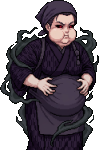
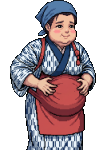
v112: へっぴり嫁の元の姿

diff --git a/src/scenes/FieldScene.js b/src/scenes/FieldScene.js
@@ -2,31 +2,31 @@
 // 上 y0〜420 に地図（1マス32ドット・旅の者が真ん中、しおりと加わった仲間が1歩ずつうしろに続く）／下の窓に十字キーと「はなす」「どうぐ」
 // 話す・店・宿の文と選びも下の窓（そのあいだ十字キーは隠す）
 // 旅の状態は registry の 'game'（計算は src/field/game.js）。地図が変わる（町に入る・出る）たびに この場面を始め直す
-import { EPISODES } from '../data/episodes.js?v=111';
-import { ITEMS, PRICE, itemNote } from '../data/items.js?v=111';
-import { FISH, PRIZES, ROD_PRICE, BITE_WINDOW_MS, WAIT_MS, rollFish, zoneStart, inZone, rentRod, addCatch, exchange } from '../field/fishing.js?v=111';
-import { RIDERS } from '../data/nomaoi_assets.js?v=111';
-import { FLAGS, FLAG_PRIZES, ENTRY_PRICE, ROUND_MS, CATCH_P, newRace, stepRace, racePts, flagX, fallP, enterRace, addFlags, exchangeFlag } from '../field/nomaoi.js?v=111';
-import { TILE } from '../field/tiles.js?v=111';
-import { GROUNDS, OBJECTS, fieldLook, townLook } from '../field/look.js?v=111';
-import { preloadKit, makeWindow, makeButton, makePad, paginate } from '../ui/kit.js?v=111';
-import { preloadPeople, frameOf, ORIGIN_Y } from '../field/sprites.js?v=111';
-import { TOWNS, TOWN_OF } from '../field/towns.js?v=111';
+import { EPISODES } from '../data/episodes.js?v=112';
+import { ITEMS, PRICE, itemNote } from '../data/items.js?v=112';
+import { FISH, PRIZES, ROD_PRICE, BITE_WINDOW_MS, WAIT_MS, rollFish, zoneStart, inZone, rentRod, addCatch, exchange } from '../field/fishing.js?v=112';
+import { RIDERS } from '../data/nomaoi_assets.js?v=112';
+import { FLAGS, FLAG_PRIZES, ENTRY_PRICE, ROUND_MS, CATCH_P, newRace, stepRace, racePts, flagX, fallP, enterRace, addFlags, exchangeFlag } from '../field/nomaoi.js?v=112';
+import { TILE } from '../field/tiles.js?v=112';
+import { GROUNDS, OBJECTS, fieldLook, townLook } from '../field/look.js?v=112';
+import { preloadKit, makeWindow, makeButton, makePad, paginate } from '../ui/kit.js?v=112';
+import { preloadPeople, frameOf, ORIGIN_Y } from '../field/sprites.js?v=112';
+import { TOWNS, TOWN_OF } from '../field/towns.js?v=112';
 import {
   mapRows, terrainAt, canWalk, tileNameAt, DELTA, BOSS_AT, WALL_OPENED_BY, SAVE_KEY, maxOf,
   enterTown, leaveTown, buy, stayInn, save, autoSaveAfterBoss, useItem, walkStep, encounterAt,
   purify, kuyo, returnStolen, HARAI_PRICE, KUYO_PRICE, revive, revivePrice, NAME, isField, crossAt,
-} from '../field/game.js?v=111';
-import { membersOf } from '../battle/levels.js?v=111';
-import { COMPANIONS } from '../data/companions.js?v=111';
-import { ICON_IDS } from '../data/icons.js?v=111';
-import { FACE_IDS } from '../data/faces.js?v=111';
-import { mapPointOf } from '../field/mapcard.js?v=111';
-import { FISHING_ICON_IDS } from '../data/icons_fishing.js?v=111';
-import { makeRng } from '../battle/rules.js?v=111';
-import { EQUIP, SLOTS, SLOT_NAME, equipNote, START_EQUIP, diffNote, diffDown } from '../data/equip.js?v=111';
-import { buyEquip, partyView } from '../field/game.js?v=111';
-import { sfx, startBgm, playJingle, jingleSeconds } from '../audio/chip.js?v=111';
+} from '../field/game.js?v=112';
+import { membersOf } from '../battle/levels.js?v=112';
+import { COMPANIONS } from '../data/companions.js?v=112';
+import { ICON_IDS } from '../data/icons.js?v=112';
+import { FACE_IDS } from '../data/faces.js?v=112';
+import { mapPointOf } from '../field/mapcard.js?v=112';
+import { FISHING_ICON_IDS } from '../data/icons_fishing.js?v=112';
+import { makeRng } from '../battle/rules.js?v=112';
+import { EQUIP, SLOTS, SLOT_NAME, equipNote, START_EQUIP, diffNote, diffDown } from '../data/equip.js?v=112';
+import { buyEquip, partyView } from '../field/game.js?v=112';
+import { sfx, startBgm, playJingle, jingleSeconds } from '../audio/chip.js?v=112';
 
 // 景品の窓（釣り＝小名浜の釣り番／旗＝雲雀ヶ原の世話役）。同じ窓を 点の名前と景品の表だけ替えて使う
 const PRIZE_SHOPS = {

diff --git a/src/data/episodes.js b/src/data/episodes.js
@@ -1,19 +1,19 @@
 // 遊ぶ順（話数＝順路の順・本人 10/1）。題の画面は先頭の話を出し、勝つと「つぎの話へ」で次へ進む
 // 序章：第一話 松川様 → 第二話 賢沼の大うなぎ → 第三話 蛇岸淵（淵の主）→ 第四話 龍燈
-import { MATSUKAWA } from './matsukawa.js?v=111';
-import { KASHINUMA } from './kashinuma.js?v=111';
-import { JAGAN } from './jagan.js?v=111';
-import { RYUTO } from './ryuto.js?v=111';
+import { MATSUKAWA } from './matsukawa.js?v=112';
+import { KASHINUMA } from './kashinuma.js?v=112';
+import { JAGAN } from './jagan.js?v=112';
+import { RYUTO } from './ryuto.js?v=112';
 // 1章 相馬（10/3）：第五話 ザルカブリ山 → 第六話 大悲山の大蛇 → 第七話 手長明神 → 第八話 虎捕山の白狼（橘墨虎）
-import { ZARUKABURI } from './zarukaburi.js?v=111';
-import { DAIHISAN } from './daihisan.js?v=111';
-import { TENAGA } from './tenaga.js?v=111';
-import { SUMITORA } from './sumitora.js?v=111';
+import { ZARUKABURI } from './zarukaburi.js?v=112';
+import { DAIHISAN } from './daihisan.js?v=112';
+import { TENAGA } from './tenaga.js?v=112';
+import { SUMITORA } from './sumitora.js?v=112';
 // 2章 県北（10/4）：第九話 飴買い幽霊 → 第十話 ご坊狐 → 第十一話 ムカデとオロチ → 第十二話 へっぴり嫁 → 第十三話 安達ヶ原の鬼婆
-import { AMEKAI } from './amekai.js?v=111';
-import { GOBOU } from './gobou.js?v=111';
-import { MUKADE } from './mukade.js?v=111';
-import { HEPPIRI } from './heppiri.js?v=111';
-import { ONIBABA } from './onibaba.js?v=111';
+import { AMEKAI } from './amekai.js?v=112';
+import { GOBOU } from './gobou.js?v=112';
+import { MUKADE } from './mukade.js?v=112';
+import { HEPPIRI } from './heppiri.js?v=112';
+import { ONIBABA } from './onibaba.js?v=112';
 
 export const EPISODES = [MATSUKAWA, KASHINUMA, JAGAN, RYUTO, ZARUKABURI, DAIHISAN, TENAGA, SUMITORA, AMEKAI, GOBOU, MUKADE, HEPPIRI, ONIBABA];

diff --git a/src/scenes/BattleScene.js b/src/scenes/BattleScene.js
@@ -1,14 +1,14 @@
-import { EPISODES } from '../data/episodes.js?v=111';
-import { revealAt } from '../ui/reveal.js?v=111';
-import { createBattle, resolveTurn, makeRng } from '../battle/rules.js?v=111';
-import { chooseCommands } from '../battle/auto.js?v=111';
-import { itemNote } from '../data/items.js?v=111';
-import { unlock, isUnlocked, sfx, startBgm, stopBgm, toggleMute, isMuted, playVoice, stopVoice, voiceLevel } from '../audio/chip.js?v=111';
-import { STORY_FILES } from '../data/story_assets.js?v=111';
-import { CUTIN_FILES, CUTIN_V } from '../data/cutin_assets.js?v=111';
-import { drawScroll } from '../ui/scroll.js?v=111';
-import { preloadKit, makeWindow, makeButton, paginate } from '../ui/kit.js?v=111';
-import { battleData, afterWin, afterLose, afterForcedLose, zakoData, afterZako, BOSS_MON } from '../field/game.js?v=111';
+import { EPISODES } from '../data/episodes.js?v=112';
+import { revealAt } from '../ui/reveal.js?v=112';
+import { createBattle, resolveTurn, makeRng } from '../battle/rules.js?v=112';
+import { chooseCommands } from '../battle/auto.js?v=112';
+import { itemNote } from '../data/items.js?v=112';
+import { unlock, isUnlocked, sfx, startBgm, stopBgm, toggleMute, isMuted, playVoice, stopVoice, voiceLevel } from '../audio/chip.js?v=112';
+import { STORY_FILES } from '../data/story_assets.js?v=112';
+import { CUTIN_FILES, CUTIN_V } from '../data/cutin_assets.js?v=112';
+import { drawScroll } from '../ui/scroll.js?v=112';
+import { preloadKit, makeWindow, makeButton, paginate } from '../ui/kit.js?v=112';
+import { battleData, afterWin, afterLose, afterForcedLose, zakoData, afterZako, BOSS_MON } from '../field/game.js?v=112';
 
 // 1つの戦いの画面を、話ごとのデータ（src/data/<話>.js・並びは episodes.js）で使い回す
 // 絵は Gemini で描いて art_src/prep_art.py で整えた物（敵も背景も2倍で見せる）。データの art に置き場と光の色

diff --git a/src/field/game.js b/src/field/game.js
@@ -1,15 +1,15 @@
 // 旅の状態（居場所・文・持ち物・仲間の HP・元に戻したボス・記録）。画面と切り離す＝Node で試験する
 // ここの関数は game を書き換えずに、新しい game を返す
-import { IWAKI_ROWS } from './iwaki_map.js?v=111';
-import { SOMA_ROWS } from './soma_map.js?v=111';
-import { KENPOKU_ROWS } from './kenpoku_map.js?v=111';
-import { FIELD_TERRAIN, TOWN_TERRAIN } from './tiles.js?v=111';
-import { TOWNS, TOWN_ENTRY } from './towns.js?v=111';
-import { ITEMS, PRICE, OLD_ITEM } from '../data/items.js?v=111';
-import { ZAKO, ZAKO_TELL } from '../data/zako.js?v=111';
-import { statsAt, levelFor, EXP_TO, PARTY_IDS, ALL_IDS, MAX_PARTY, membersOf, statsWithGear } from '../battle/levels.js?v=111';
-import { COMPANIONS, COMPANION_SPELLS, JOIN_AFTER, SWAP_AFTER_LOSS } from '../data/companions.js?v=111';
-import { EQUIP, START_EQUIP } from '../data/equip.js?v=111';
+import { IWAKI_ROWS } from './iwaki_map.js?v=112';
+import { SOMA_ROWS } from './soma_map.js?v=112';
+import { KENPOKU_ROWS } from './kenpoku_map.js?v=112';
+import { FIELD_TERRAIN, TOWN_TERRAIN } from './tiles.js?v=112';
+import { TOWNS, TOWN_ENTRY } from './towns.js?v=112';
+import { ITEMS, PRICE, OLD_ITEM } from '../data/items.js?v=112';
+import { ZAKO, ZAKO_TELL } from '../data/zako.js?v=112';
+import { statsAt, levelFor, EXP_TO, PARTY_IDS, ALL_IDS, MAX_PARTY, membersOf, statsWithGear } from '../battle/levels.js?v=112';
+import { COMPANIONS, COMPANION_SPELLS, JOIN_AFTER, SWAP_AFTER_LOSS } from '../data/companions.js?v=112';
+import { EQUIP, START_EQUIP } from '../data/equip.js?v=112';
 
 export const SAVE_KEY = 'fq-save-v1';
 

diff --git a/src/main.js b/src/main.js
@@ -1,11 +1,11 @@
-import { TitleScene } from './scenes/TitleScene.js?v=111';
-import { BattleScene } from './scenes/BattleScene.js?v=111';
-import { FieldScene, FIELD_TEXT } from './scenes/FieldScene.js?v=111';
-import { ZAKO, ZAKO_TELL } from './data/zako.js?v=111';
-import { HARAI } from './field/game.js?v=111';
-import { EQUIP } from './data/equip.js?v=111';
-import { EPISODES } from './data/episodes.js?v=111';
-import { unlock, isUnlocked } from './audio/chip.js?v=111';
+import { TitleScene } from './scenes/TitleScene.js?v=112';
+import { BattleScene } from './scenes/BattleScene.js?v=112';
+import { FieldScene, FIELD_TEXT } from './scenes/FieldScene.js?v=112';
+import { ZAKO, ZAKO_TELL } from './data/zako.js?v=112';
+import { HARAI } from './field/game.js?v=112';
+import { EQUIP } from './data/equip.js?v=112';
+import { EPISODES } from './data/episodes.js?v=112';
+import { unlock, isUnlocked } from './audio/chip.js?v=112';
 
 // 本人 10/2「松川と戦うまで、BGMが無い」＝iPhone は指を置いた瞬間（pointerdown）では音の出口を開けず、指を離した瞬間・クリックで開く
 // ⇒ 画面のどこを さわっても、離した瞬間に音の出口を開け直す（題の画面で一度さわった後だけ。止まっていれば鳴りだす）

diff --git a/src/data/heppiri.js b/src/data/heppiri.js
@@ -5,11 +5,11 @@
 // 必殺技は「すごいおなら」（本人 10/1「おなら」→10/4「おおきな屁」→同日「すごいおなら」・おならの効果音・くらうと全員しばらく気絶）。⛔下品に振れさせない（音・臭いを書かない。可笑しみは真面目に語ることから）・子ども向けの絵柄に寄せない
 // ゲームでは、忘れられて黒いもやに呑まれた嫁。弱点＝「迎えの言葉」（遠慮は いらんよ）。倒すと元に戻り、二本松への道の大岩を吹き飛ばす
 // 絵＝まだ（仮に道中の娘の絵）。プロンプト＝art_src/Geminiプロンプト_2章県北.md
-import { BASIC_ITEMS } from './basic_items.js?v=111';
+import { BASIC_ITEMS } from './basic_items.js?v=112';
 
 export const HEPPIRI = {
   art: {
-    dark: 'assets/heppiri_dark.png', light: 'assets/heppiri_light.png', bg: 'assets/bg_dochu_north.png', // 10/4 ①が届いた（②が届くまで light も呑まれた姿・背景は仮）
+    dark: 'assets/heppiri_dark.png', light: 'assets/heppiri_light.png', bg: 'assets/bg_dochu_north.png', // 10/4 ①②が届いた（背景は仮）
     glowDark: 0xc9a0ff, glowLight: 0xffc8a0, // 夕暮れの薄紫 → 戻ったら あたたかい茜色
   },
   allies: [

diff --git a/src/data/daihisan.js b/src/data/daihisan.js
@@ -5,7 +5,7 @@
 // ゲームでは、忘れの力でよみがえった大蛇。弱点＝「鉄の釘」。助っ人＝玉都（本人 10/3「戦いの中で琵琶を弾く助っ人」）＝語って弱点が明かされると
 // 琵琶が鳴り、大蛇は聞き入って2回動けない。その後も ときどき琵琶で止める
 // 絵＝10/3 届いた（2noh3h 大蛇・xf4m56 封じられた姿）。必殺技の挿絵＝描き直し（貼り付け・使用済み_絵／大悲山_大雨_描き直し_貼り付け.jpg。1回目 vxa4qk は封じられた姿と山高帽で描かれた）。背景も届いた。プロンプト＝art_src/Geminiプロンプト_1章相馬.md
-import { BASIC_ITEMS } from './basic_items.js?v=111';
+import { BASIC_ITEMS } from './basic_items.js?v=112';
 
 export const DAIHISAN = {
   art: {

diff --git a/src/scenes/TitleScene.js b/src/scenes/TitleScene.js
@@ -1,7 +1,7 @@
-import { unlock, startBgm, stopBgm, sfx } from '../audio/chip.js?v=111';
-import { BRUSH_FONT, smooth } from '../ui/scroll.js?v=111';
-import { newGame, load, SAVE_KEY } from '../field/game.js?v=111';
-import { preloadKit, makeWindow } from '../ui/kit.js?v=111';
+import { unlock, startBgm, stopBgm, sfx } from '../audio/chip.js?v=112';
+import { BRUSH_FONT, smooth } from '../ui/scroll.js?v=112';
+import { newGame, load, SAVE_KEY } from '../field/game.js?v=112';
+import { preloadKit, makeWindow } from '../ui/kit.js?v=112';
 
 // 題の画面（本人 10/1「さわってはじめる、から音楽が欲しい」）
 // ⭐10/3 本人「アイコンクリック後、『はじめから』『つづきから』を加えてほしい」＝下に2つの札。押した札で始まる（1回で）

diff --git a/src/data/zarukaburi.js b/src/data/zarukaburi.js
@@ -4,7 +4,7 @@
 // ゲームでは、忘れられて黒いもやに呑まれた山の神の使い。⭐10/4 本人「敵と戦う形にして欲しい」＝戦う（10/3「C」の誓いの出会いは取りやめ）
 // 原典で倒されない所は、勝った後の紙芝居④と hosoku で しおりが補う。見た目は ざるのまま描き直す（本人 10/4・名前もそのまま）
 // 絵＝10/4 描き直し（sd30b3・czv1hg・必殺技 38x7zb＝ざるが頭をまるごと覆う）。旧＝10/3 qil8fg・13r9vr・pgmdxj。背景は10/3のまま。プロンプト＝art_src/Geminiプロンプト_1章相馬.md
-import { BASIC_ITEMS } from './basic_items.js?v=111';
+import { BASIC_ITEMS } from './basic_items.js?v=112';
 
 export const ZARUKABURI = {
   art: {

diff --git a/src/data/sumitora.js b/src/data/sumitora.js
@@ -5,7 +5,7 @@
 // ゲームでは、忘れの力でよみがえった墨虎。語って弱点が明かされるまでは岩穴の闇に隠れて、たたかう・鉄砲の半分がとどかない（hide）。
 // 明かされると白狼が現れて足跡で隠れ家を暴き、ときどき墨虎に とびかかる（helper）。弱点＝「白狼の足跡」
 // 絵＝10/3 届いた（pbl37p 墨虎・2uh591 捕らえられた姿＝肌が緑に描かれたので prep_art で人の肌へ・9mqri4 闇討ち・achnd8 火矢の雨）。背景も届いた。プロンプト＝art_src/Geminiプロンプト_1章相馬.md
-import { BASIC_ITEMS } from './basic_items.js?v=111';
+import { BASIC_ITEMS } from './basic_items.js?v=112';
 
 export const SUMITORA = {
   art: {

diff --git a/src/data/tenaga.js b/src/data/tenaga.js
@@ -4,7 +4,7 @@
 // 漁師になった少年 長吉は、海から戻ると海のめぐみと無事に帰れたことへの感謝を忘れなかった
 // ゲームでは、忘れられて黒いもやに呑まれた暮らしの守り神。弱点＝「海の幸への感謝」。倒すと元に戻り、長い腕で虎捕山への もやを払う
 // 絵＝10/3 届いた（1ukroq 呑まれた・z1hpg6 元の姿・3dcp6z 長い腕。①→挿絵→②の順で頼んで姿がそろった）。背景も届いた。プロンプト＝art_src/Geminiプロンプト_1章相馬.md
-import { BASIC_ITEMS } from './basic_items.js?v=111';
+import { BASIC_ITEMS } from './basic_items.js?v=112';
 
 export const TENAGA = {
   art: {

diff --git a/src/field/nomaoi.js b/src/field/nomaoi.js
@@ -4,7 +4,7 @@
 // 遊び方（画面は FieldScene の nomaoi*）：花火で上がった旗が ゆらゆら落ちてくる → 旅の者の馬を左右に走らせ、ほかの騎馬武者より先に受け取る
 // 旗の色：赤・青＝1点／金＝3点（金はゲームの作り。めったに上がらず、速く落ちる）。取った旗の点＝「旗点」→ 世話役が景品と換える
 // 画面と切り離す＝Node で試験する。ここの関数は game も race も書き換えずに新しい物を返す
-import { exchangePrize } from './fishing.js?v=111';
+import { exchangePrize } from './fishing.js?v=112';
 
 export const ENTRY_PRICE = 10;
 export const ROUND_MS = 30000;
